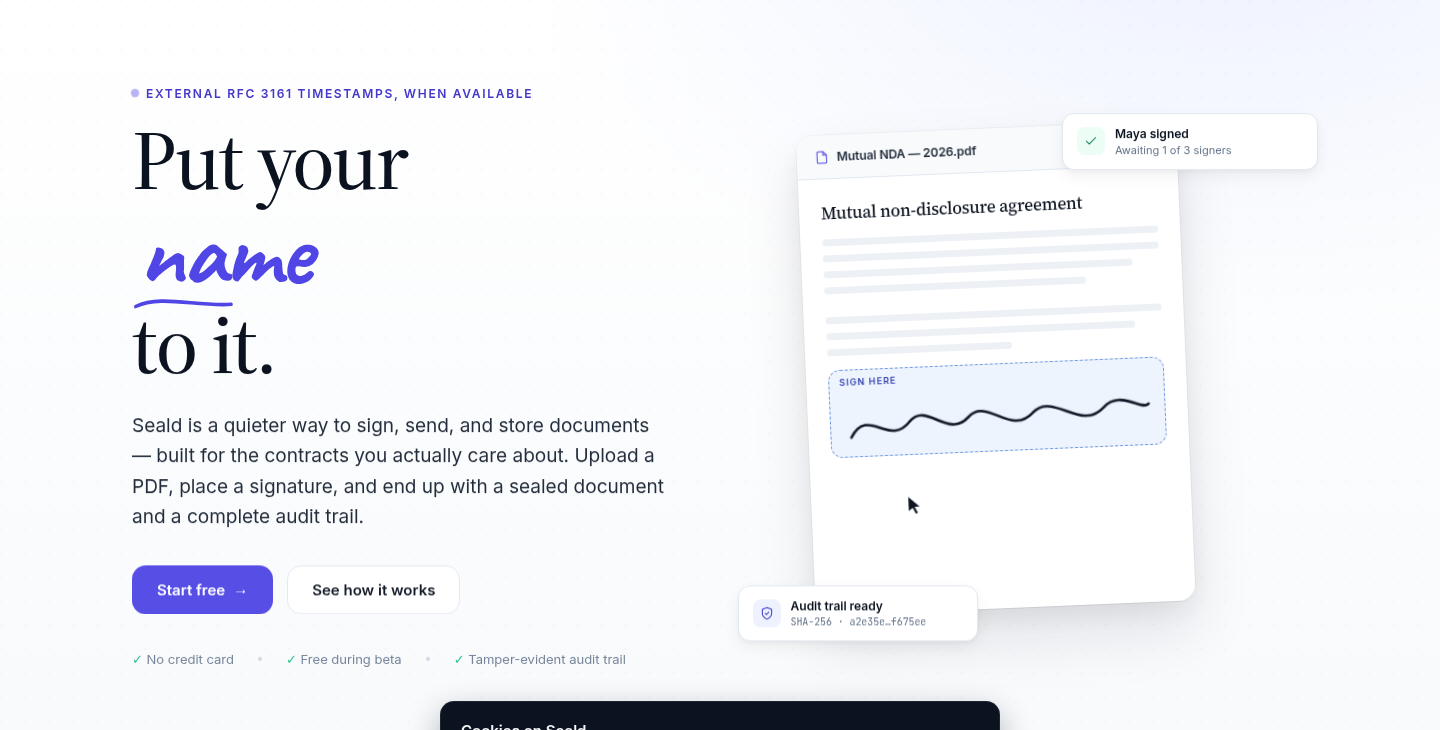
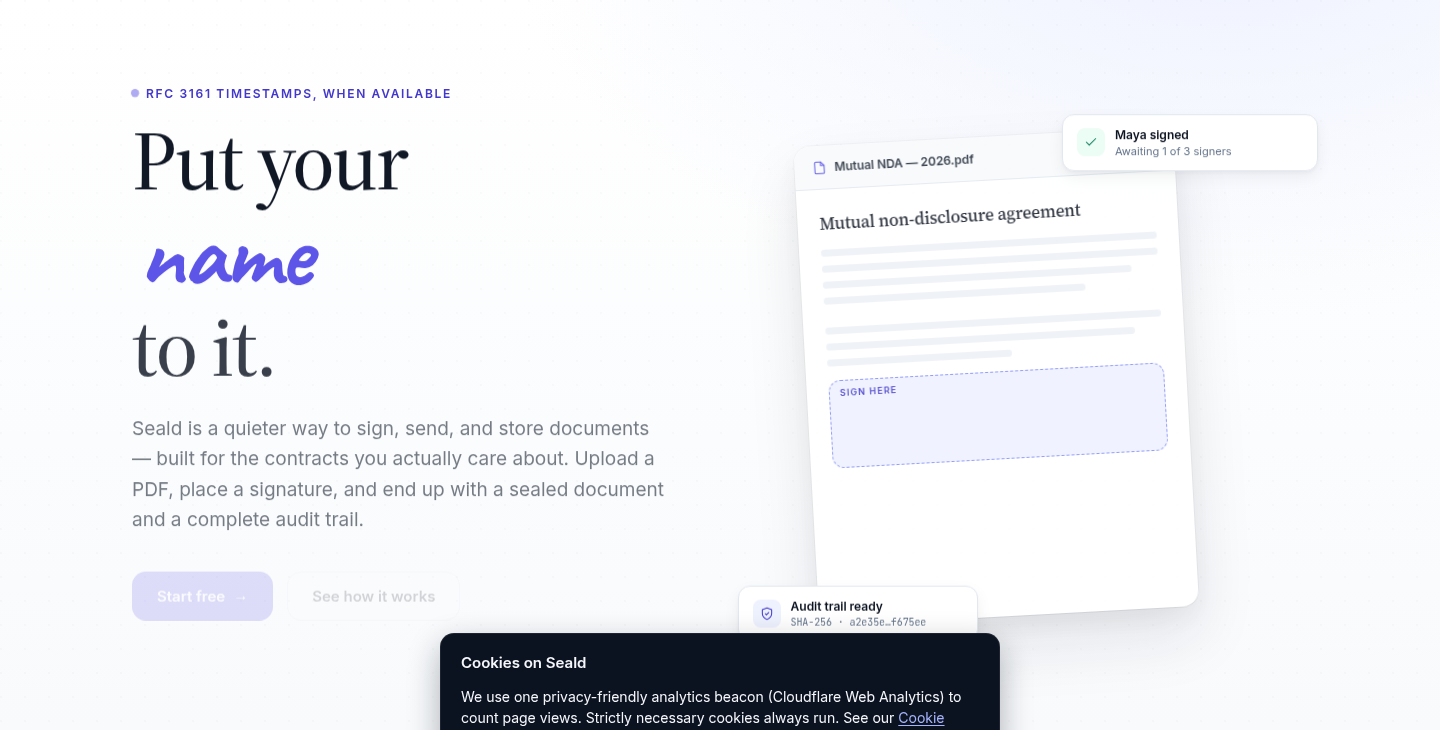
fix(copy): fit the hero eyebrow and drop the duplicate verify link
The long eyebrow wrapped at 390. The shorter line stays one line and
still names the timestamp caveat. The download error no longer repeats
the verify link that the retention notice already shows.

diff --git a/apps/web/src/pages/SigningDonePage/SigningDonePage.test.tsx b/apps/web/src/pages/SigningDonePage/SigningDonePage.test.tsx
@@ -386,12 +386,11 @@ describe('SigningDonePage', () => {
       renderDone();
 
       const alert = await screen.findByRole('alert', undefined, { timeout: 5_000 });
-      expect(alert).toHaveTextContent(/couldn.?t load the download yet/i);
-      expect(within(alert).getByRole('link', { name: /open the verify page/i })).toHaveAttribute(
-        'href',
-        '/verify/TESTDONE00099',
+      expect(alert).toHaveTextContent(
+        /we couldn.?t load the download yet\. if sealing finishes, we.?ll email signers a link\. you can also check the verify page\./i,
       );
-      expect(within(alert).queryByText(/\/verify\/testdone00099/i)).not.toBeInTheDocument();
+      expect(within(alert).queryByRole('link')).not.toBeInTheDocument();
+      expect(within(alert).queryByText(/open the verify page/i)).not.toBeInTheDocument();
       // Disabled fallback button is still present.
       expect(screen.getByRole('button', { name: /download signed pdf/i })).toBeDisabled();
     });

diff --git a/apps/web/src/pages/SigningDonePage/SigningDonePage.tsx b/apps/web/src/pages/SigningDonePage/SigningDonePage.tsx
@@ -327,16 +327,7 @@ export function SigningDonePage() {
             </DownloadHint>
           ) : null}
           {verify.isError && !sealedUrl ? (
-            <DownloadError role="alert">
-              {SEAL_DOWNLOAD_ERROR}{' '}
-              <a
-                href={`/verify/${snap.short_code}`}
-                style={{ color: 'inherit', textDecoration: 'underline' }}
-              >
-                Open the verify page
-              </a>
-              .
-            </DownloadError>
+            <DownloadError role="alert">{SEAL_DOWNLOAD_ERROR}</DownloadError>
           ) : null}
         </Actions>
 

diff --git a/packages/shared/src/product-claims.ts b/packages/shared/src/product-claims.ts
@@ -84,4 +84,4 @@ export const DRIVE_DISCONNECT_NOTE =
   'Disconnect any time. We revoke access at Google where we can and stop using the token. An encrypted copy stays in our database for now.';
 
 export const SEAL_DOWNLOAD_ERROR =
-  "We couldn't load the download yet. If sealing finishes, we'll email signers a link. You can also check the verify page:";
+  "We couldn't load the download yet. If sealing finishes, we'll email signers a link. You can also check the verify page.";
